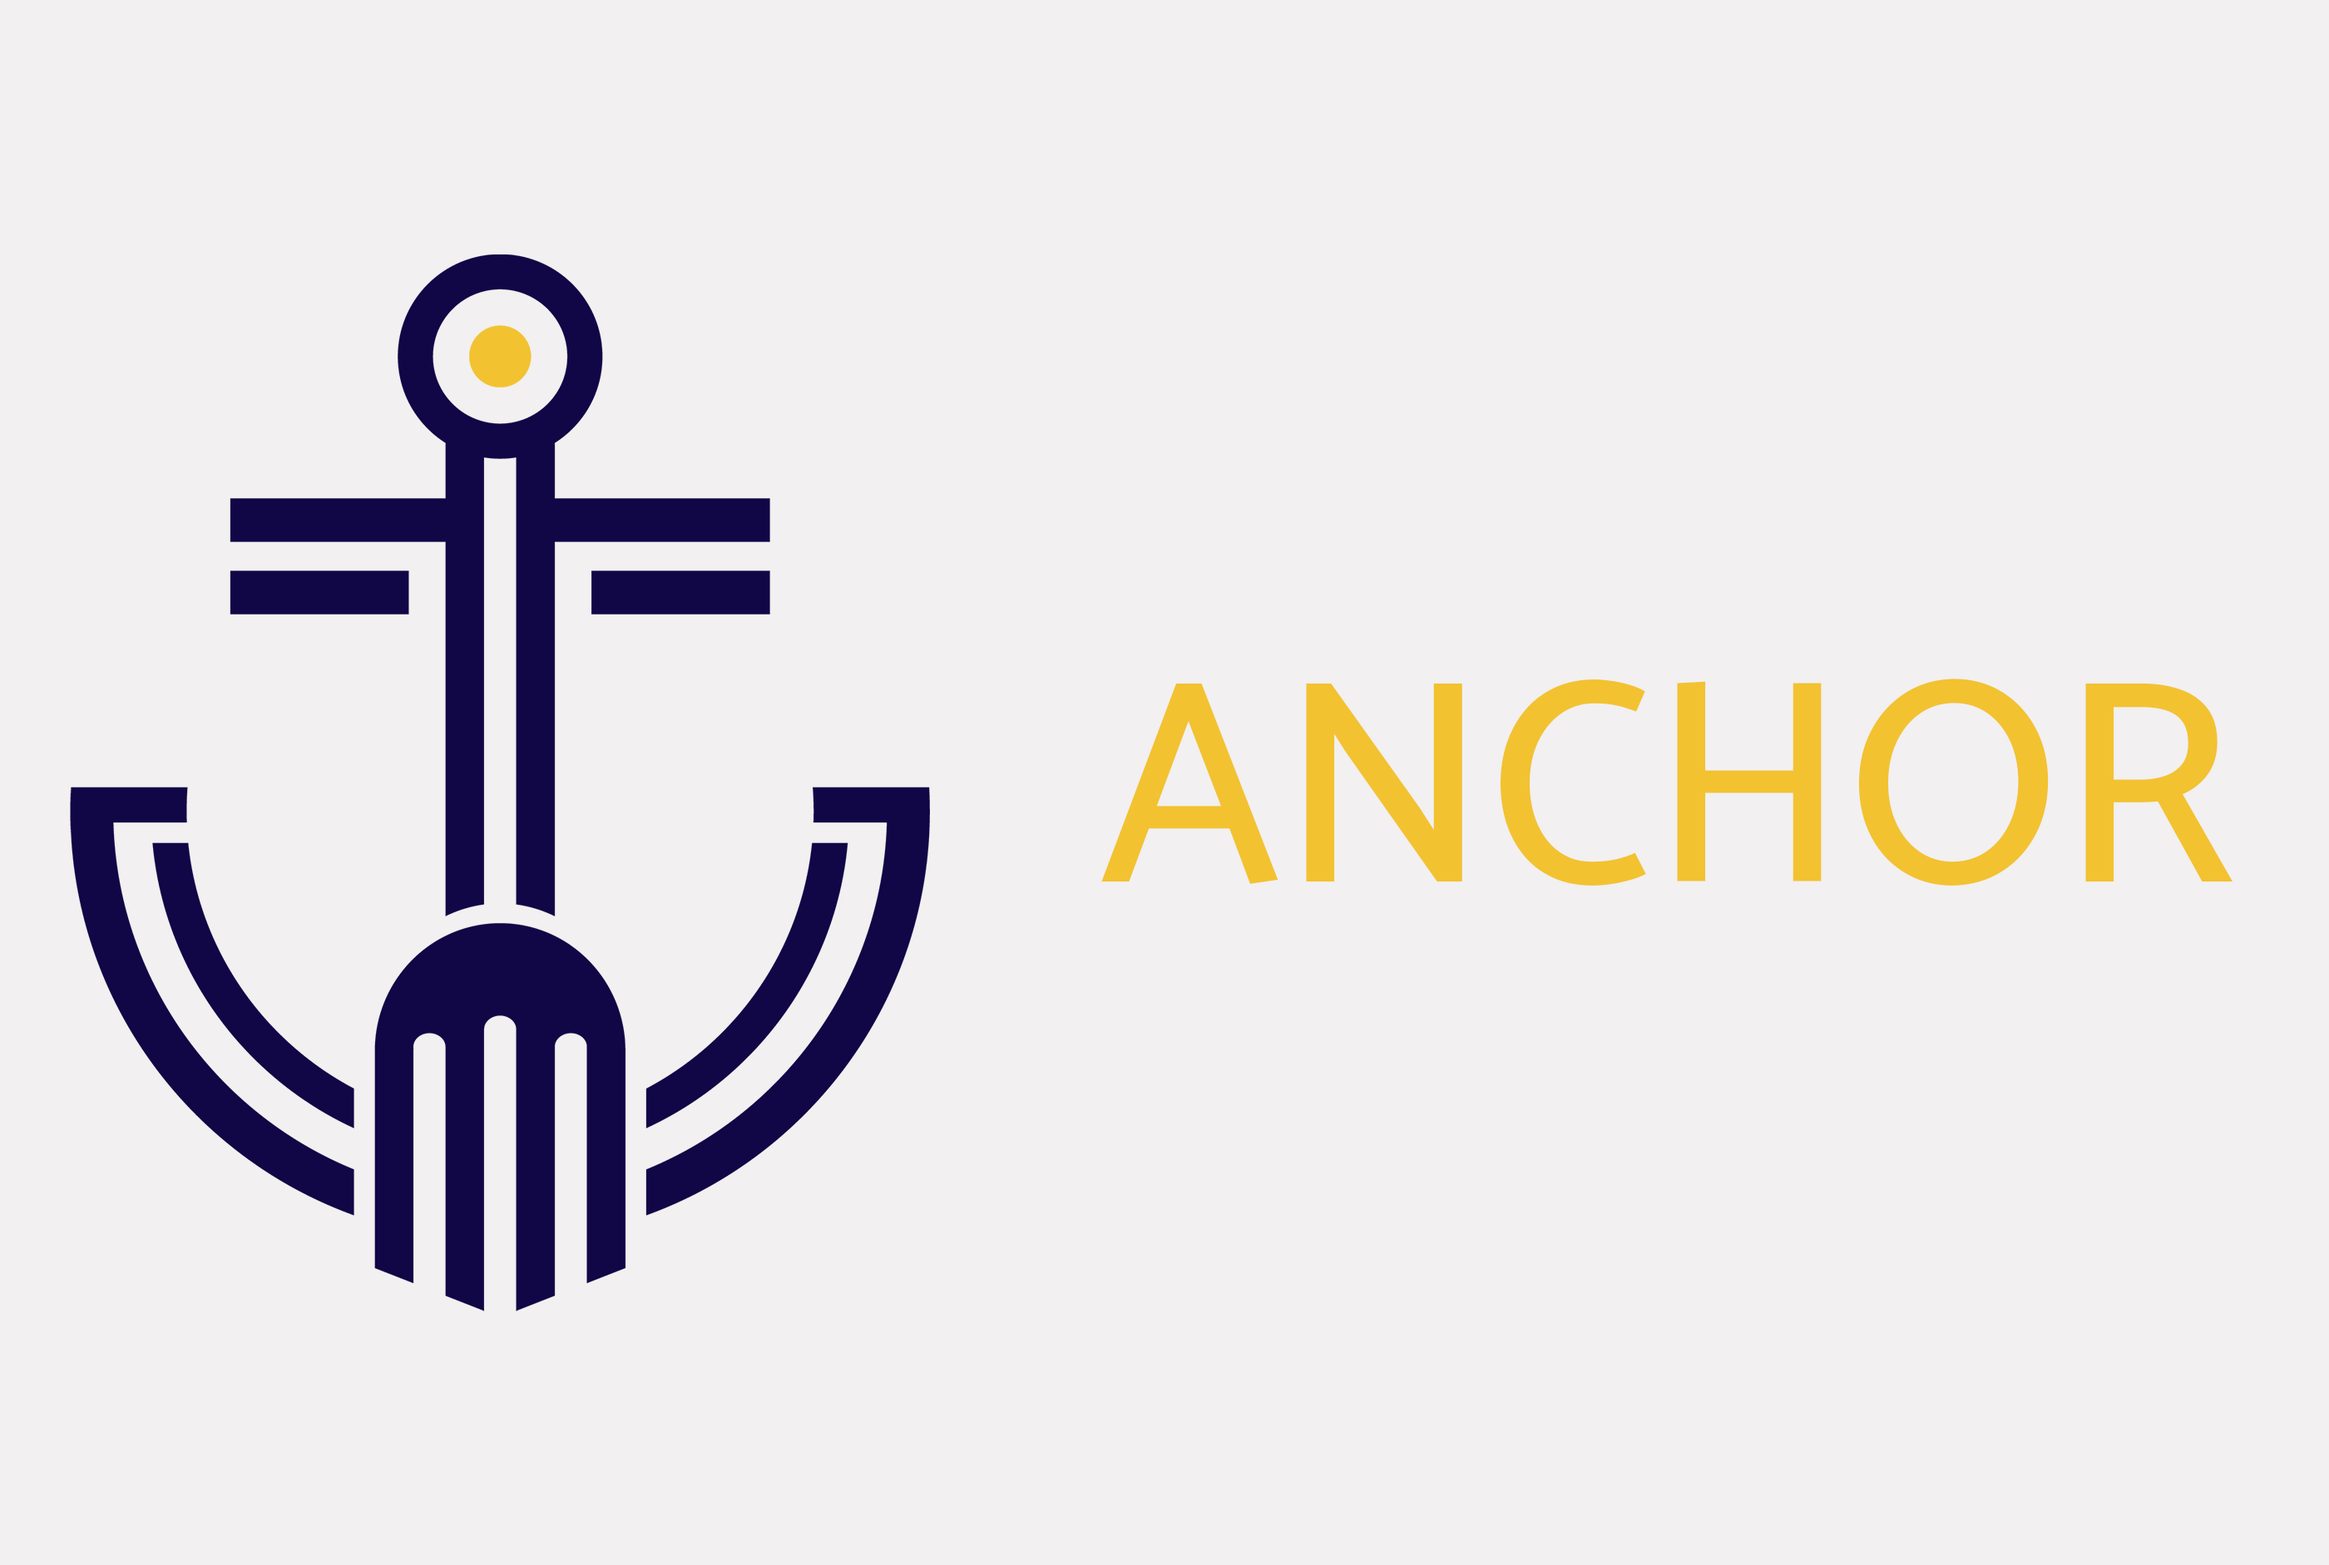
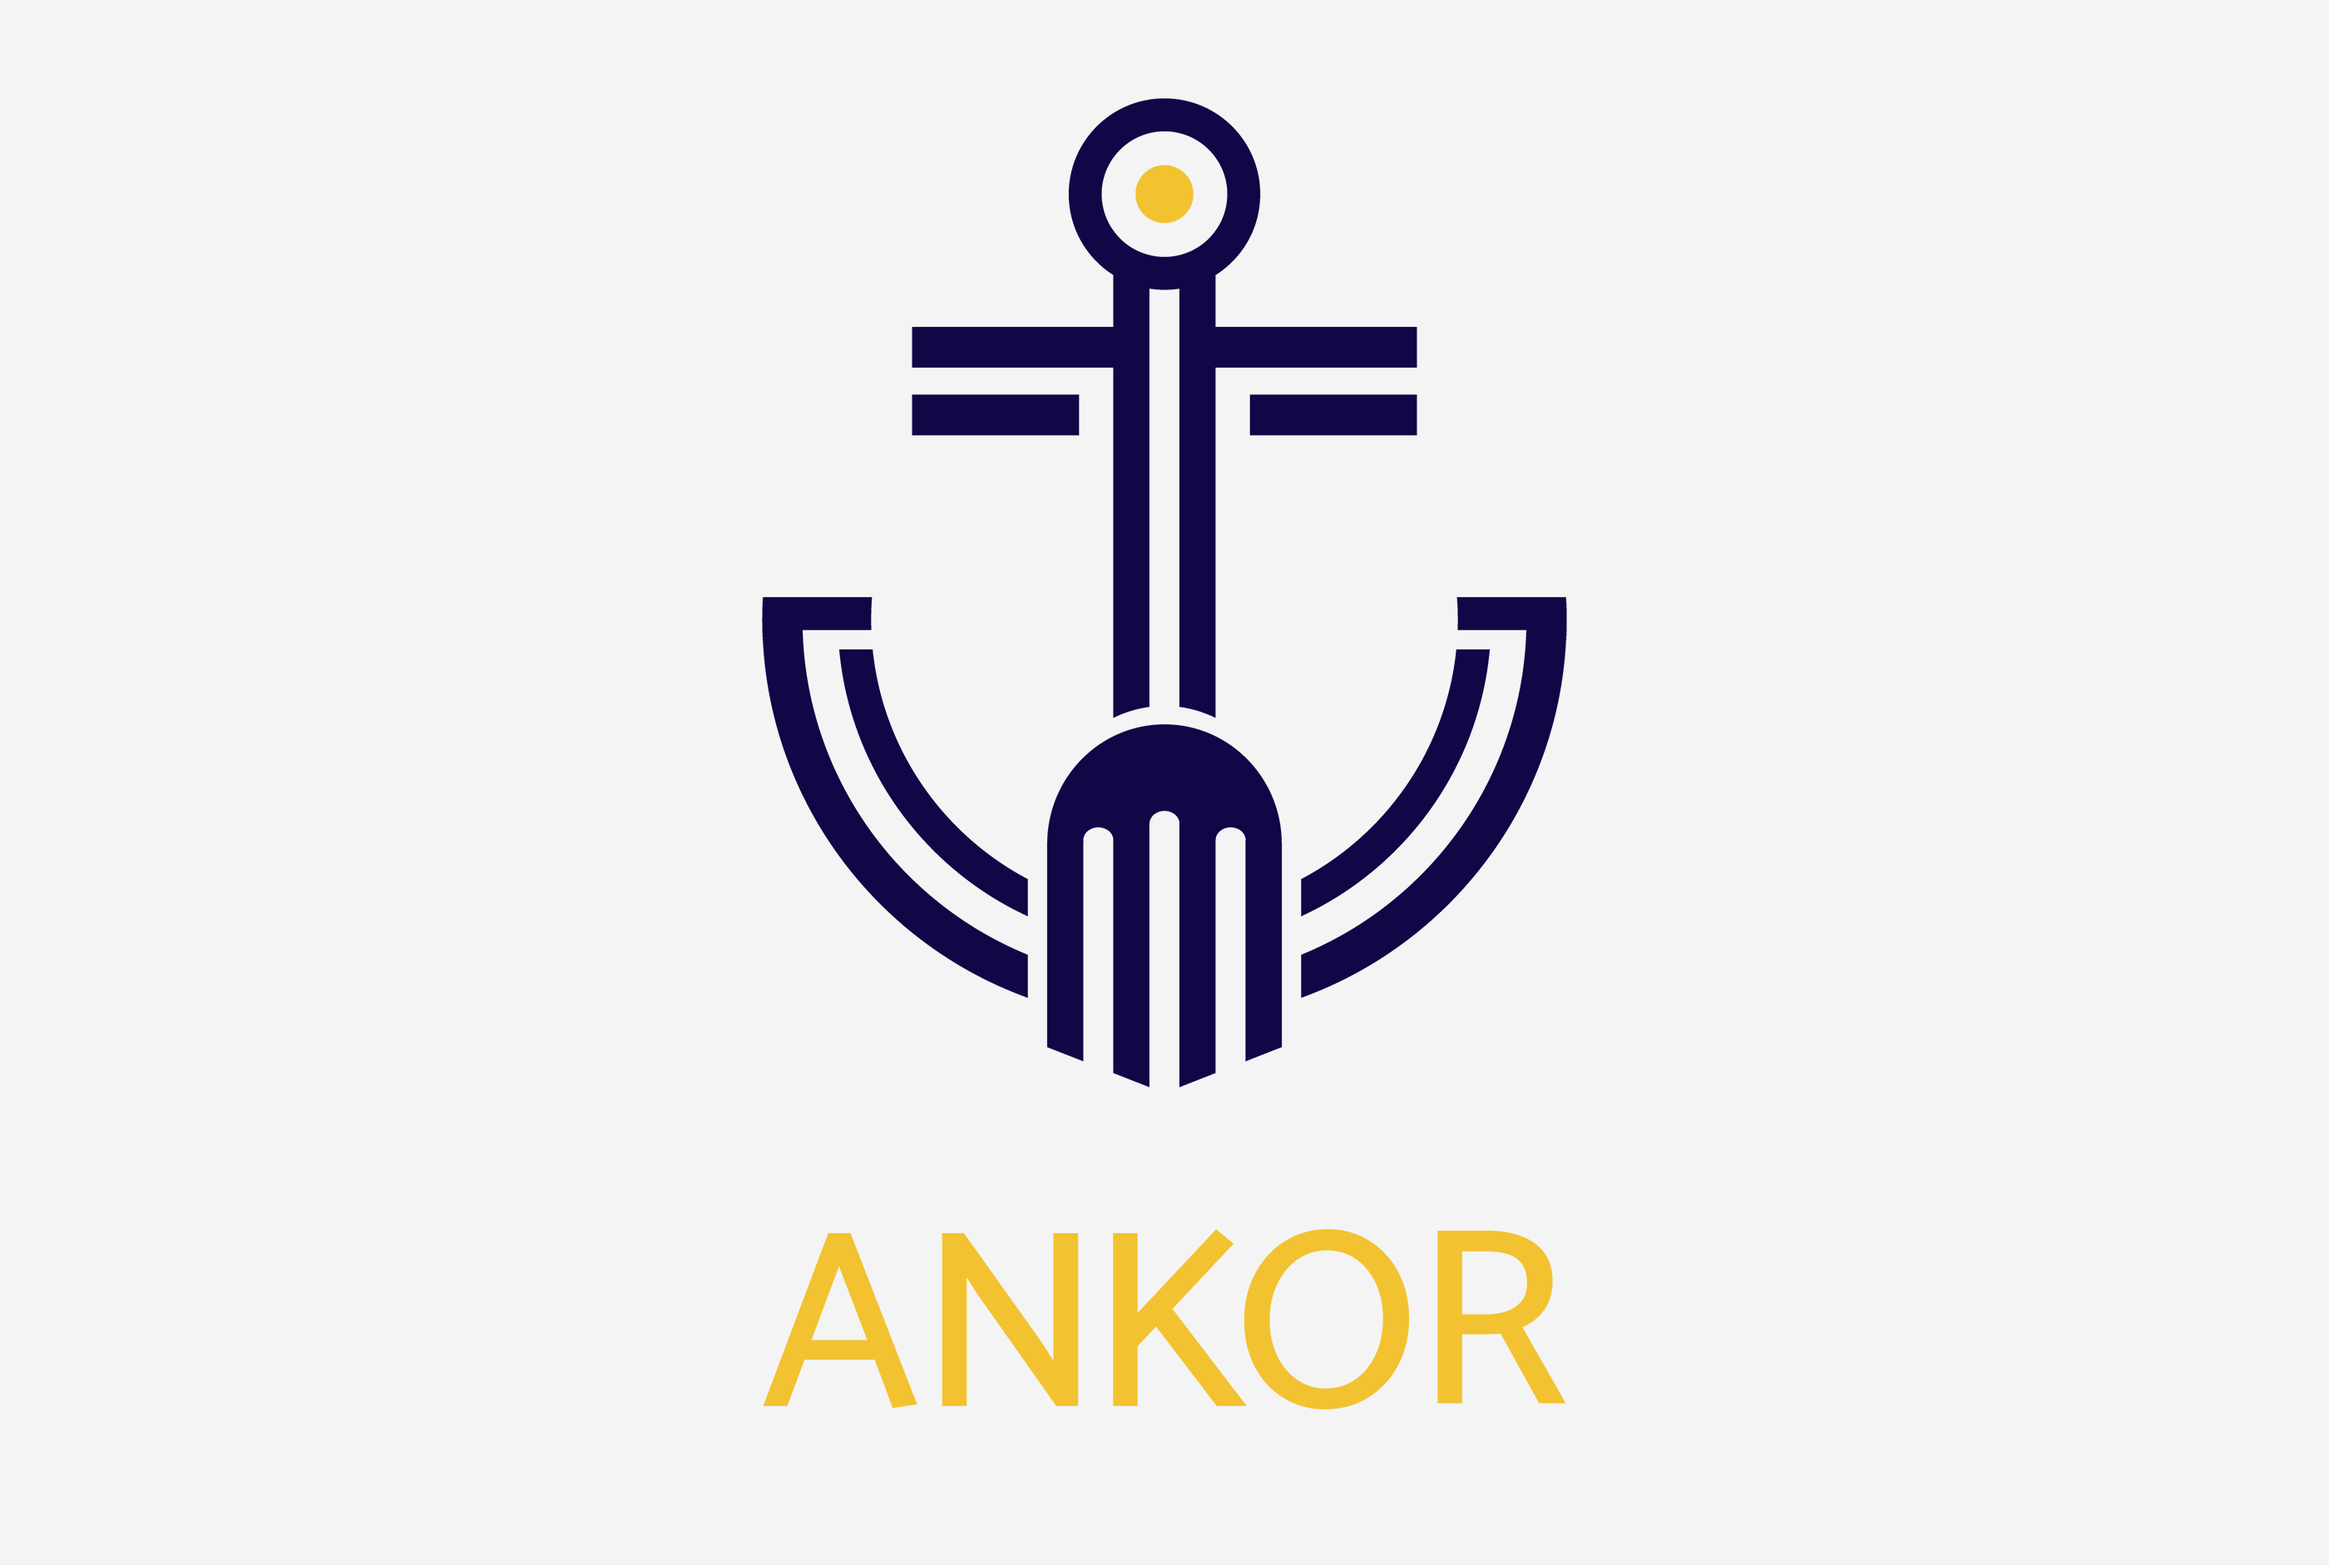
5th commit

Changed region(s): [[0.0311, 0.0616, 0.9632, 0.8321], [0.3107, 0.7705, 0.6836, 0.9245]]

diff --git a/anchor/index.php b/anchor/index.php
@@ -40,7 +40,7 @@
                             <img src="../img/cartes-de-visites-anchor.png" alt>
                         </div>
                         <div class=description>
-                            <img src="../img/anchor-menu.png" alt>
+                            <img src="../img/bateau-anchor.png" alt>
                         </div>
                         <div class=description>
                             <img src="../img/anchor-motif.png" alt>
@@ -59,7 +59,7 @@
                         </li>
                         <li>
                             <a href="#votre_id3">
-                            <img src="../img/anchor-menu.png" alt>
+                            <img src="../img/bateau-anchor.png" alt>
                             </a>
                         </li>
                         <li>
@@ -72,15 +72,15 @@
         </div>
         <div class="contenu-projets">
             <div class="titre">
-                <h1>Anchor</h1>
+                <h1>Ankor</h1>
             </div>
             <ul>
                 <li><p>Création numérique</p></li>
                 <li><p>Photoshop / Illustrator</p></li>
-                <li><p>18h</p></li>
+                <li><p>25h</p></li>
             </ul>
             <p>
-            Anchor est un mélange entre un foodtruck et un bateau : un “foodboat”. De la création du logo, à la recherche des couleurs et de typographies, en passant par la création de visuels, avec mon binôme, nous avons élaborer une charte graphique complète pour cette entreprise fictive.
+            Ankor est un mélange entre un foodtruck et un bateau : un “foodboat”. De la création du logo, à la recherche des couleurs et de typographies, en passant par la création de visuels, avec mon binôme, nous avons élaborer une charte graphique complète pour cette entreprise fictive.
             </p>
             <div class="boutonSite noSite">
                 <a target="_blank" href="">Visiter le site</a>
